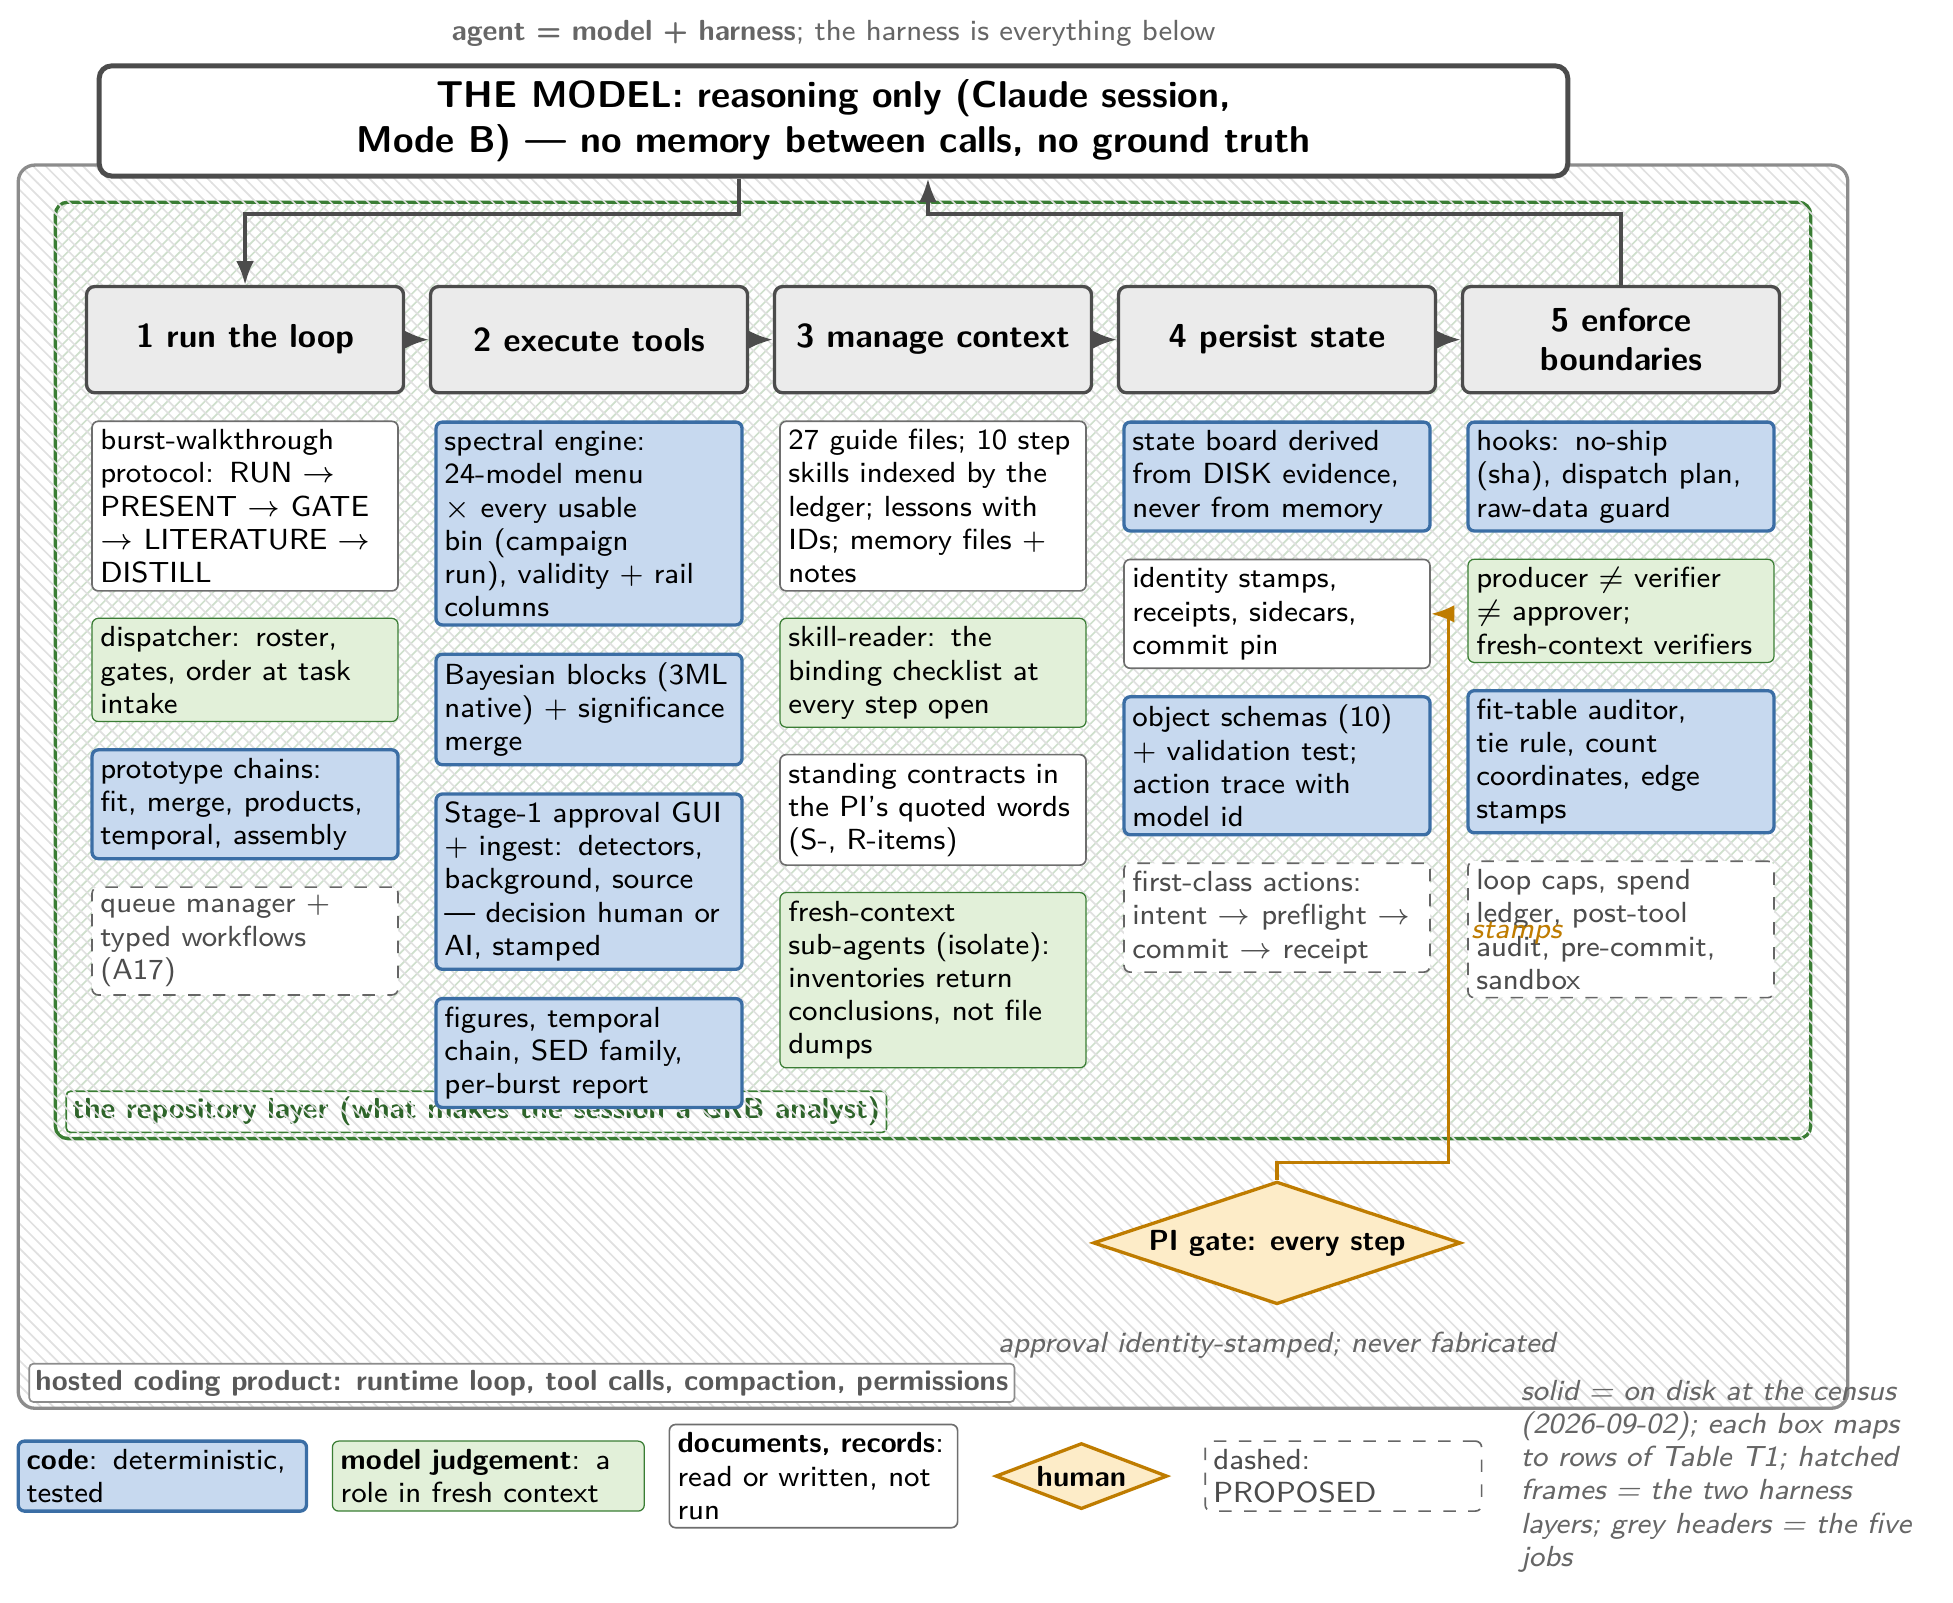
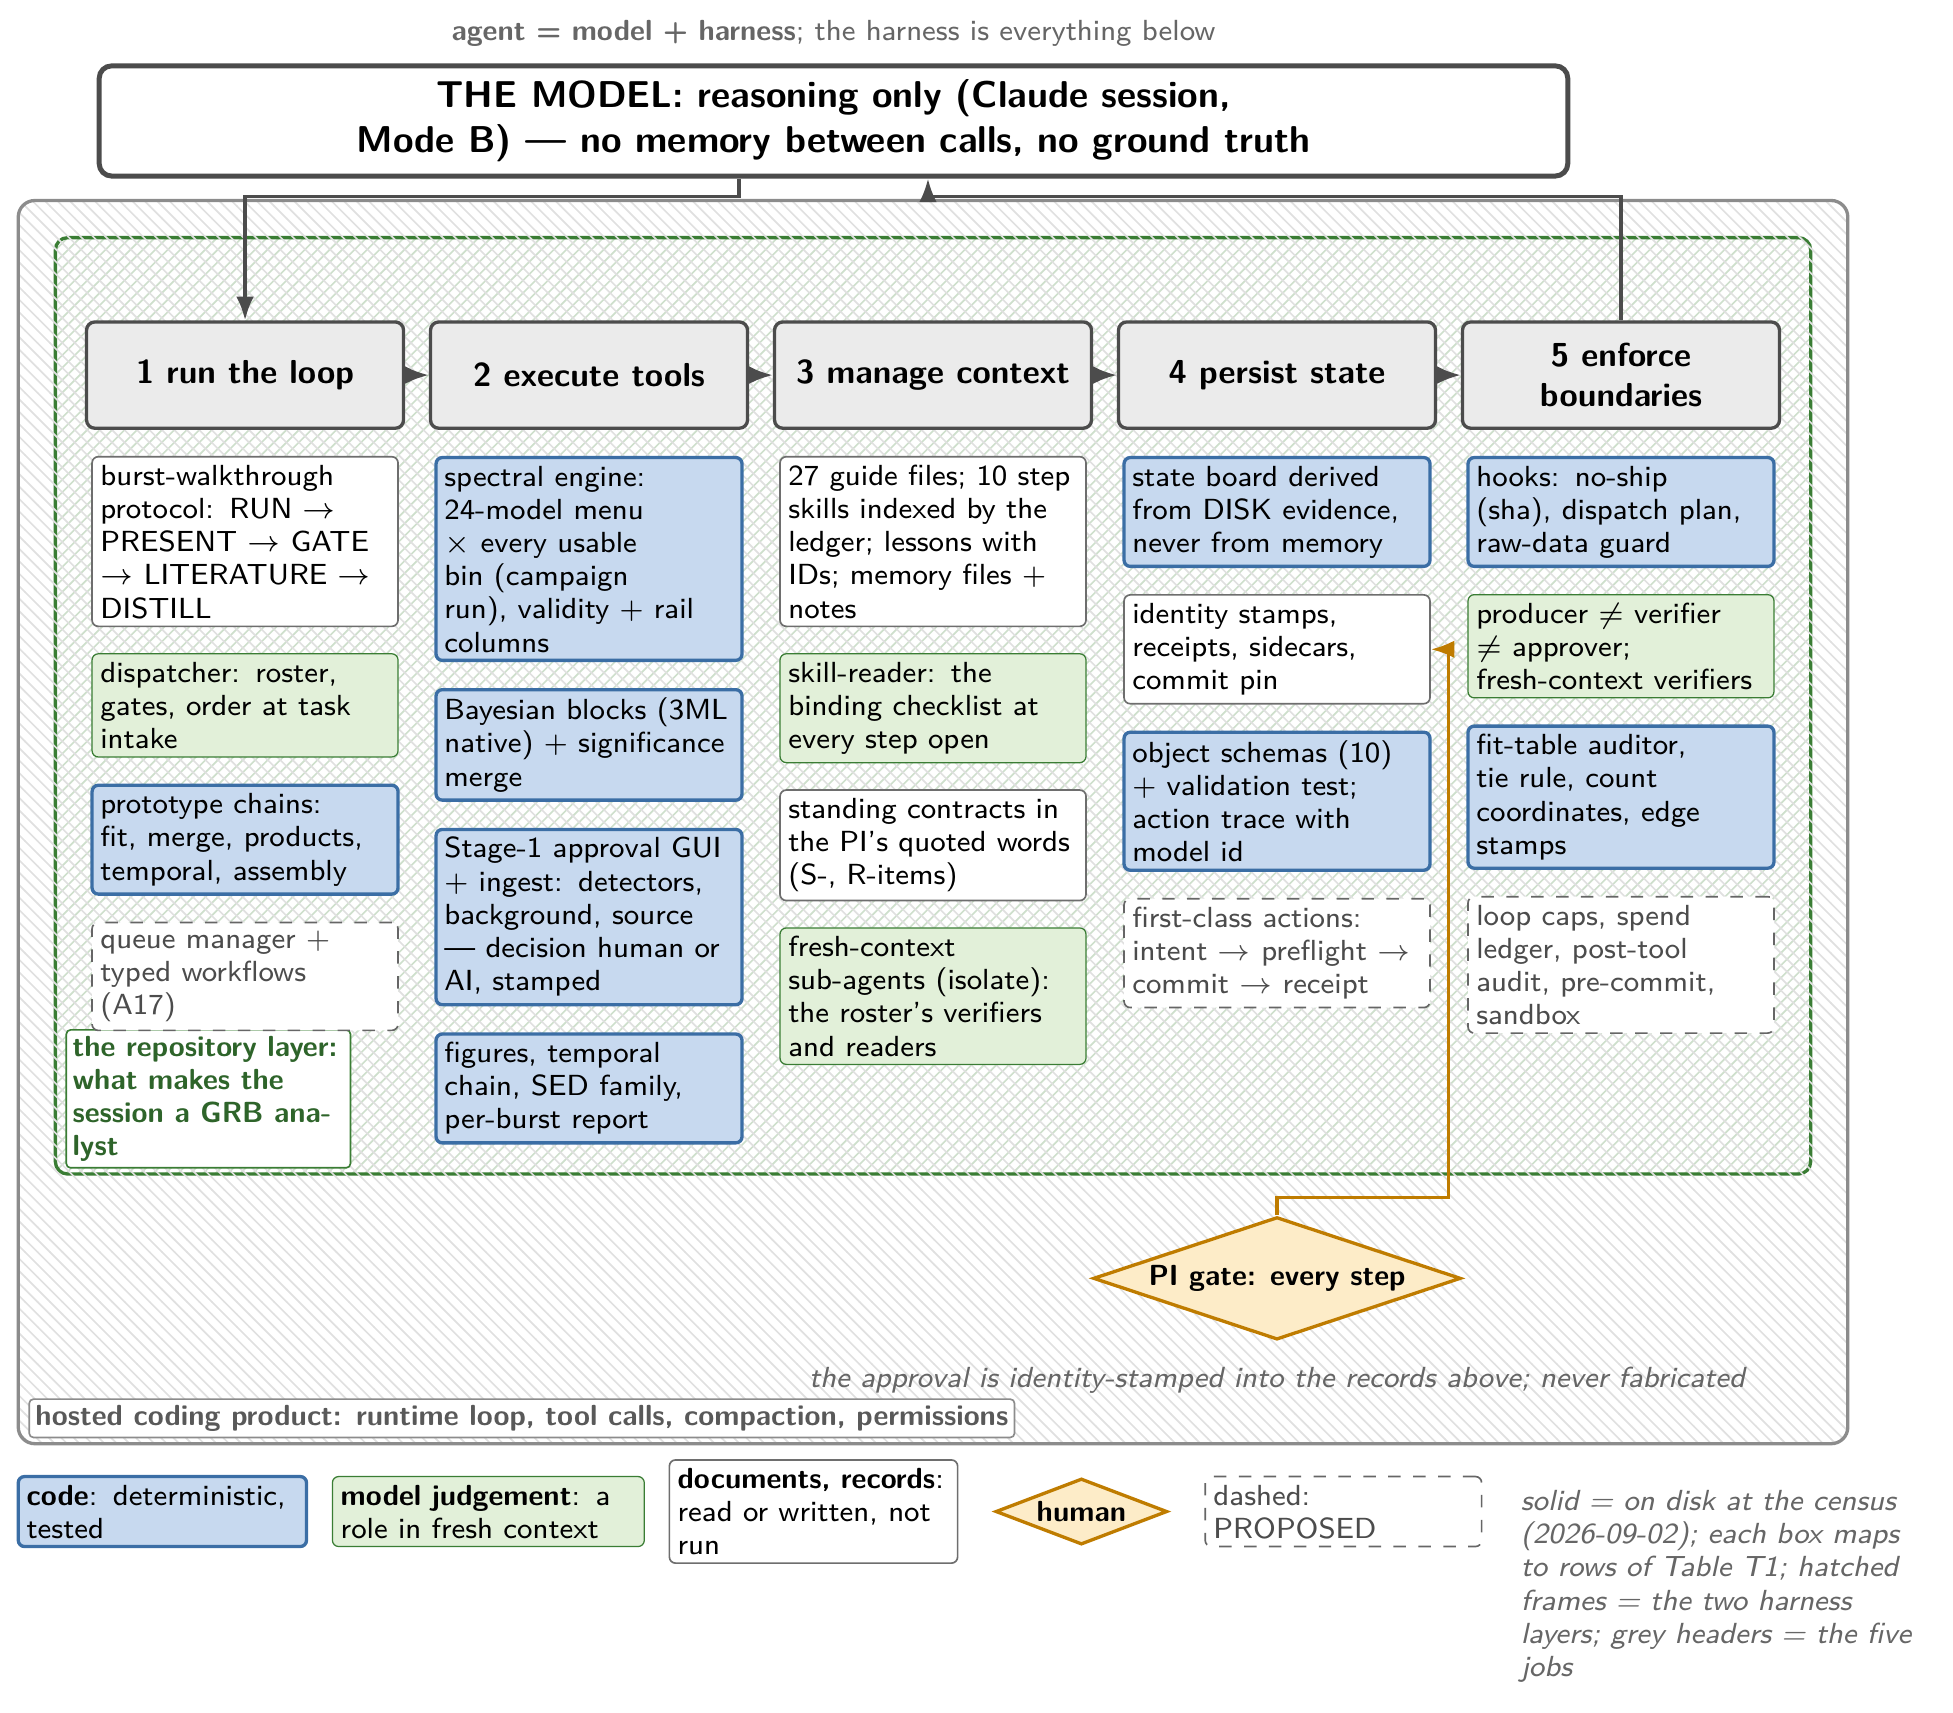
diagram gate ledger: colour-restyle rounds (F1 r1/r2 FAIL, r3 pending; F2 r1 FAIL, r2 pending; F4 r1 PASS-WITH-NITS, r2 pending; F5 r2 PASS-WITH-NITS CURRENT) + F1 round-3 render
Claude-Session: https://claude.ai/code/session_014ZKU13JNR6E9CyYseiK5df

diff --git a/paper_agentic/figures/fig_F1_harness_anatomy.tex b/paper_agentic/figures/fig_F1_harness_anatomy.tex
@@ -35,7 +35,7 @@
 \node[lab, above=1mm of model, font=\sffamily\scriptsize, fill=white, inner sep=1pt] (toplab) {\textbf{agent = model + harness}; the harness is everything below};
 
 % five jobs
-\node[job, below=9mm of model.south west, anchor=north west, xshift=-1mm] (loop) {1 run the loop};
+\node[job, below=12mm of model.south west, anchor=north west, xshift=-1mm] (loop) {1 run the loop};
 \node[job, right=of loop] (tools) {2 execute tools};
 \node[job, right=of tools] (ctx) {3 manage context};
 \node[job, right=of ctx] (state) {4 persist state};
@@ -55,7 +55,7 @@
 \node[doc, below=of ctx] (c1) {27 guide files; 10 step skills indexed by the ledger; lessons with IDs; memory files + notes};
 \node[agent, below=of c1] (c2) {skill-reader: the binding checklist at every step open};
 \node[doc, below=of c2] (c3) {standing contracts in the PI's quoted words (S-, R-items)};
-\node[agent, below=of c3] (c4) {fresh-context sub-agents (isolate): inventories return conclusions, not file dumps};
+\node[agent, below=of c3] (c4) {fresh-context sub-agents (isolate): the roster's verifiers and readers};
 
 \node[code, below=of state] (s1) {state board derived from DISK evidence, never from memory};
 \node[doc, below=of s1] (s2) {identity stamps, receipts, sidecars, commit pin};
@@ -73,27 +73,26 @@
 
 
 % arrows: loop
-\draw[arr] ($(model.south)+(-8mm,0)$) -- ++(0,-3mm) -| (loop.north);
+\draw[arr] ($(model.south)+(-8mm,0)$) -- ++(0,-1.5mm) -| (loop.north);
 \draw[arr] (loop.east) -- (tools.west);
 \draw[arr] (tools.east) -- (ctx.west);
 \draw[arr] (ctx.east) -- (state.west);
 \draw[arr] (state.east) -- (bound.west);
-\draw[arr] (bound.north) |- ($(model.south)+(8mm,-3mm)$) -- ($(model.south)+(8mm,0)$);
+\draw[arr] (bound.north) |- ($(model.south)+(8mm,-1.5mm)$) -- ($(model.south)+(8mm,0)$);
 \draw[arr, humanline] (pi.north) -- ++(0,1.5mm) -| ($(s4.east)+(1.5mm,0)$) |- (s2.east);
-\node[lab, anchor=south west, text=humanline] at ($(s4.east)+(2.2mm,-3.5mm)$) {stamps};
-\node[lab, below=1mm of pi] (pilab) {approval identity-stamped; never fabricated};
+\node[lab, below=1mm of pi] (pilab) {the approval is identity-stamped into the records above; never fabricated};
 
 % the two harness layers (drawn behind): inner green hatch = the repository; outer grey hatch = the hosted product
 \begin{scope}[on background layer]
   \coordinate (headroom) at ($(loop.north)+(0,4.5mm)$);
   \node[draw=agentline, thick, rounded corners=3pt, pattern=north east lines, pattern color=agentline!25, inner sep=2.5mm,
         fit=(headroom)(loop)(bound)(l4)(b4)(t1)(t4)] (repo) {};
-  \node[fill=white, draw=agentline, rounded corners=1pt, inner sep=1.5pt, font=\sffamily\scriptsize\bfseries, text=agentline!80!black,
-        anchor=south west] at ($(repo.south west)+(1mm,0.6mm)$) {the repository layer (what makes the session a GRB analyst)};
   \node[draw=black!45, thick, rounded corners=4pt, pattern=north west lines, pattern color=black!12, inner sep=3mm,
         fit=(repo)(pi)(pilab)] (host) {};
   \node[fill=white, draw=black!45, rounded corners=1pt, inner sep=1.5pt, font=\sffamily\scriptsize\bfseries, text=black!65,
         anchor=south west] at ($(host.south west)+(1mm,0.6mm)$) {hosted coding product: runtime loop, tool calls, compaction, permissions};
+  \node[fill=white, draw=agentline, rounded corners=1pt, inner sep=1.5pt, font=\sffamily\scriptsize\bfseries, text=agentline!80!black,
+        text width=23mm, align=left, anchor=south west] at ($(repo.south west)+(1mm,0.6mm)$) {the repository layer: what makes the session a GRB analyst};
 \end{scope}
 
 % legend row (below the outer enclosure)
@@ -102,6 +101,6 @@
 \node[doc, right=2mm of leg2, text width=23mm] (leg3) {\textbf{documents, records}: read or written, not run};
 \node[human, right=3mm of leg3, aspect=2.6] (leg4) {human};
 \node[prop, right=3mm of leg4, text width=22mm] (leg5) {dashed: PROPOSED};
-\node[lab, right=2mm of leg5, text width=34mm, align=left, execute at begin node=\nohyph] {solid = on disk at the census (2026-09-02); each box maps to rows of Table~T1; hatched frames = the two harness layers; grey headers = the five jobs};
+\node[lab, anchor=north west, text width=34mm, align=left, execute at begin node=\nohyph] at ($(leg5.north east)+(2mm,0)$) {solid = on disk at the census (2026-09-02); each box maps to rows of Table~T1; hatched frames = the two harness layers; grey headers = the five jobs};
 \end{tikzpicture}
 \end{document}

diff --git a/paper_agentic/figures/GATE_LEDGER.md b/paper_agentic/figures/GATE_LEDGER.md
@@ -1,6 +1,6 @@
 # Paper v3 diagram gate ledger — TRACKED COPY
 
-Copied from `results/campaign/agentfigs/VISION_QC.md` (gitignored under results/*) at 2026-09-03T04:56:23Z, so the approval record of the manuscript's diagrams is commit-recoverable (Codex supervisor review D4, 2026-09-02). The results/ file remains the ledger the no-ship hook reads; this copy is refreshed by the building session whenever a diagram row changes.
+Copied from `results/campaign/agentfigs/VISION_QC.md` (gitignored under results/*) at 2026-09-03T17:42:32Z, so the approval record of the manuscript's diagrams is commit-recoverable (Codex supervisor review D4, 2026-09-02). The results/ file remains the ledger the no-ship hook reads; this copy is refreshed by the building session whenever a diagram row changes.
 
 ## Paper v3 diagrams — gate ledger appended 2026-09-03T03:32:12Z by the building session (verdicts by fresh-context figure-verifier agents; producer = building session)
 
@@ -29,3 +29,25 @@ Rule (D4): a verdict is CURRENT only if the tex sha here matches the tex on disk
 | fig | png | png sha256 | pdf sha256 | tex sha256 | verdict |
 |---|---|---|---|---|---|
[1 lines of base64/hex data omitted]
+
+### Diagram contract amendment 2026-09-03 (PI: colour-filled flowcharts after Schüssler+2026 arXiv:2608.23270 Fig. 1)
+Colour grammar for F1/F2/F4/F5, replacing grey/white: BLUE fill (RGB 219,231,245; frame 59,110,165) = deterministic code;
+GREEN fill (226,240,217; frame 58,125,52) = a model-judgement role; WHITE with grey frame = documents and records;
+AMBER (253,236,200; frame 191,124,0) = the human (diamond); DASHED grey = PROPOSED; hatched frames = the two harness layers
+(outer grey = hosted product, inner green = repository). Every restyled figure re-gates; the verifier checks that each box's
+colour matches the roster's execution column (C -> blue, I -> green, H -> amber, documents -> white).
+
+Tie-break (F1 colour gate, 2026-09-03): a DOCUMENT the model reads (protocol, guide, contract, memory file) is WHITE even though the roster marks it inferential; GREEN is reserved for a ROLE the model plays (an invocation: verifier, reader, dispatcher, distiller). Mixed boxes are split. Code fill darkened to RGB 199,217,239 (L* ~86) so blue and green separate in greyscale.
+
+### Colour-restyle gates, 2026-09-03 (PI: colour-filled flowcharts) — verdict rows appended 2026-09-03T17:42:32Z
+| fig | state | png sha256 | pdf sha256 | tex sha256 | verdict |
+|---|---|---|---|---|---|
[9 lines of base64/hex data omitted]
